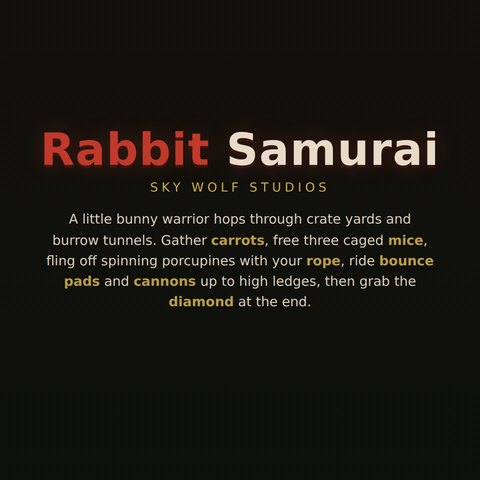
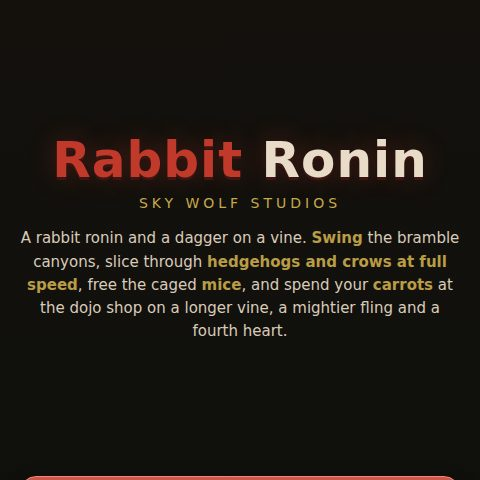
Rabbit Ronin v2.2: the card says its name, no boxed carrots, a calmer pace
Stephen (2026-08-21, heading to bed):
- 'still says rabbit samurai on card' — the thumbnail had the OLD title
  screen baked into the art. Regenerated from the new title screen (says
  Rabbit Ronin, 27KB), thumb ref cache-busted ?v=rr1.
- 'carrots inside a box that you can't get' — arc and platform carrots
  could generate inside solid tiles. genLevel now culls any carrot whose
  cell is solid or that is wedged in a one tile slot. Audited: ZERO boxed
  carrots across all 24 dojos.
- 'plays a little fast still' — MOVE 232 -> 208 (a tenth off the run
  speed; jump and swing untouched).
- His dash/attack button idea is recorded in HANDOFF-SIMPLE-FIXES.md as a
  design note, per his 'don't worry about that one right now'.

Solver re-proved ALL 24 DOJOS SOLVABLE at the calmer speed. That took
policy VARIANTS (lip-precise jumps + hog hop + air dash as new policies
beside the originals) rather than one global bot change: three rounds of
whack-a-mole confirmed, again, that tuning a single reflex policy for all
24 dojos is a trap. The finale now clears deathless.

Plus HANDOFF-SIMPLE-FIXES.md: a scoped queue (brand singular sweep,
feedback-fab collision sweep, dash-free copy sweep, thumb freshness) with
the non-optional rules, for a lighter session to work overnight.

Claude-Session: https://claude.ai/code/session_01TYNuNBxsPqQLGG6T9cEiu3

Changed region(s): [[0.0312, 0.25, 0.9688, 0.7188], [0.0625, 0.9688, 0.9375, 1.0]]

diff --git a/satellites/rabbit-samurai/index.html b/satellites/rabbit-samurai/index.html
@@ -183,12 +183,14 @@ h2.sc-h{font-size:30px; color:var(--gold); font-weight:800; margin-bottom:4px}
 function $(id){ return document.getElementById(id); }
 function tap(id,fn){ var el=$(id); if(el)el.addEventListener('click',function(e){e.preventDefault();fn();}); }
 var VW=540, VH=960, DPR=Math.min(2,window.devicePixelRatio||1);
-var BUILD='v2.1';
+var BUILD='v2.2';
 var TESTMODE=/[?&]rstest=1/.test(location.search);
 
 /* ---------- world constants ---------- */
 var T=40, ROWS=24;
-var GRAV=2200, MAXFALL=1500, MOVE=232, ACCEL=1700, FRIC=1500;
+/* MOVE 232 -> 208 (2026-08-21, Stephen: "it moves pretty quick... plays a
+   little fast still") — a tenth off the run speed; jump and swing untouched */
+var GRAV=2200, MAXFALL=1500, MOVE=208, ACCEL=1700, FRIC=1500;
 var JUMP=770, BOUNCE=1250, CANNON=1560;
 var ROPE_MAX=235, ROPE_MIN=62, ASSIST=1050;
 var HW=12, HH=16; /* bunny half extents */
@@ -432,6 +434,20 @@ function genLevel(li){
   for(i=0;i<nb;i++){ var bc=groundCol(9+Math.floor(i/nb*(W-16))); lvl.bounces.push({ x:bc*T+T/2, y:22*T-7 }); }
   var cc=groundCol(Math.floor(W*0.6)); lvl.cannons.push({ x:cc*T+T/2, y:22*T-24, cd:0 });
   for(i=0;i<3;i++){ var mc=groundCol(Math.floor((i+1)/4*W)); lvl.cells.push({ x:mc*T+T/2, y:21*T, freed:false }); }
+
+  /* no carrot inside solid rock: arc carrots under an anchor and platform
+     carrots can land inside a tile, which reads as a prize you can never
+     have (Stephen 2026-08-21: "carrots inside a box that you can't get").
+     Anything whose cell is solid, or whose bottom tip pokes into rock with
+     rock above it too, is culled. */
+  lvl.carrots=lvl.carrots.filter(function(ca){
+    var cc3=Math.floor(ca.x/T), rr3=Math.floor(ca.y/T);
+    if(cc3<0||cc3>=W||rr3<0||rr3>=ROWS)return false;
+    if(grid[rr3]&&grid[rr3][cc3])return false;
+    var below=grid[rr3+1]&&grid[rr3+1][cc3], above=grid[rr3-1]&&grid[rr3-1][cc3];
+    if(above&&below)return false;   /* wedged in a one tile slot */
+    return true;
+  });
 
   /* spikes: EVERY wide-pit floor tile gets one (swing it, do not jump it);
      narrow pits keep the old sometimes-spiked floor */

diff --git a/portal/index.html b/portal/index.html
@@ -1107,7 +1107,7 @@ var FEATURED = [
   {nm:"Doodle Pad", ds:"A free drawing pad stuffed with pens, brushes, stamps, and every color you can mix.", cat:"creative", url:"/satellites/doodle-pad/", ic:"🎨", thumb:"/portal-assets/thumbs/doodle-pad.jpg"},
   {nm:"Mouse Trap", ds:"Plant one hedge a turn to box the little garden mouse in before it scurries off the edge.", cat:"puzzle", url:"/satellites/mouse-trap/", ic:"🐭", thumb:"/portal-assets/thumbs/mouse-trap.jpg"},
   {nm:"Stop Motion", ds:"Snap photos of your toys frame by frame and turn them into stop motion movies.", cat:"creative", url:"/satellites/stop-motion/", ic:"🎬", thumb:"/portal-assets/thumbs/stop-motion.jpg"},
-  {nm:"Rabbit Ronin", ds:"A rabbit ronin and a dagger on a vine. Swing the bramble canyons, slice foes at full speed, spend carrots at the dojo shop.", cat:"action", url:"/satellites/rabbit-samurai/?v=20260821d", ic:"🐰", thumb:"/portal-assets/thumbs/rabbit-samurai.jpg", fresh:true},
+  {nm:"Rabbit Ronin", ds:"A rabbit ronin and a dagger on a vine. Swing the bramble canyons, slice foes at full speed, spend carrots at the dojo shop.", cat:"action", url:"/satellites/rabbit-samurai/?v=20260821e", ic:"🐰", thumb:"/portal-assets/thumbs/rabbit-samurai.jpg?v=rr1", fresh:true},
   {nm:"Garden Path", ds:"A sweet color card race down the rainbow path to the Garden Throne.", cat:"board", url:"/satellites/garden-path/", ic:"🍭", thumb:"/portal-assets/thumbs/garden-path.jpg"},
   {nm:"Garden Estates", ds:"A garden spin on the property board game where the last gardener standing wins.", cat:"board", url:"/satellites/garden-estates/", ic:"🏡", thumb:"/portal-assets/thumbs/garden-estates.jpg"},
   // Blooming Words: vendored same-origin (Jul 02) like the two above so its

diff --git a/HANDOFF-SIMPLE-FIXES.md b/HANDOFF-SIMPLE-FIXES.md
@@ -1,0 +1,99 @@
+# HANDOFF: simple game fixes (written 2026-08-21, late night)
+
+You are a Claude session picking up light maintenance for Stephen's arcade
+while he sleeps. This file is your whole brief. Work the queue below top to
+bottom, verify every change, push after every commit. If the queue is done,
+stop; do not invent large projects.
+
+## The rules that are not optional
+
+1. **Deploy** = commit on `add-sproing-jumper`, then
+   `git push origin add-sproing-jumper:main`. Hostinger serves main.
+   Nothing is live until that push, and a 200 is not proof: probe the LIVE
+   url for a NEW marker string you just added, with `?probe=$RANDOM`.
+2. **Caching law**: bump every `?v=` you touch (portal card url, sw.js
+   registration AND its SHELL_VERSION/cache constant together). A player
+   who keeps the old cache is a player you did not fix.
+3. **LOOKING is part of the job**: any visual change gets a screenshot at
+   412x915 (deviceScaleFactor 2, touch on) that you OPEN AND READ. Name
+   what is wrong in it before assuming you are done. Puppeteer probes live
+   in `scripts/` (repo node_modules resolve there; the scratchpad cannot).
+   A local server usually runs at `127.0.0.1:8777` (repo root,
+   `python3 -m http.server 8777`); use `domcontentloaded`, never
+   networkidle.
+4. **Run the game's own gates** after editing it and before committing:
+   many satellites carry `sim.js --test`, `check.js`, `audit-check.mjs`,
+   or `pagecheck.js` in their folder. `scripts/portal_ux_check.mjs` (26
+   asserts) and `scripts/advertised_count_check.mjs` guard the portal —
+   run both after ANY portal edit.
+5. **Copy rules**: no dashes of any kind in player-facing text (spell it
+   out or use commas), display names never slugs, the studio is
+   **Sky Wolf Studio** (SINGULAR) in any NEW copy.
+6. **Never remove a game.** Gating (`beta:true`) exists; removal does not.
+7. **Read before believing**: `DONE-LEDGER.md` before any sweep or count;
+   a game's `AUDIT-NOTES.md` before calling anything broken;
+   `VENDORING.md` before touching `satellites/<slug>/` for a vendored
+   game (fix upstream, never hand-edit those).
+8. **Do not touch**: Steam anything, payment code (functions/, LW_WebPay),
+   the Lucid Winds economy, vendored games, `index.html`'s game systems.
+   Do not deploy Firebase functions. Do not start rebuilds.
+9. Commit messages explain WHY, quoting Stephen when the fix answers his
+   feedback.
+
+## The queue (in order)
+
+### 1. Brand sweep: "Sky Wolf Studios" -> "Sky Wolf Studio"
+Stephen owns skywolfstudio.com (singular); the plural .com belongs to
+someone else. Shipped games still say the plural everywhere.
+- `grep -rn "Sky Wolf Studios" --include="*.html" satellites/ play/ portal/`
+  plus games/*.js. Change PLAYER-VISIBLE copy (title screens, footers, og
+  meta, share strings) to "Sky Wolf Studio".
+- Do NOT rename code identifiers, file paths, or localStorage keys.
+- This trips dash-free/copy checks in some games' suites; run each game's
+  gate after editing it. Batch by folder, commit per batch, push each.
+- Skip vendored games (VENDORING.md list) — note them in the commit body
+  as "needs upstream fix" instead.
+
+### 2. Feedback-fab collision sweep (canvas games, bottom-right controls)
+The floating feedback chip parks bottom-right and CANNOT see painted
+controls; it ate Rabbit Ronin's JUMP button (see
+`feedback_fab_on_painted_controls` in memory). feedback.js v7 supports
+`home:'top-right'`.
+- For each satellite that mounts the fab (`grep -l "mountFab" satellites/*/index.html`),
+  open the game headless, screenshot the PLAY state, and LOOK: does any
+  painted control sit in the bottom-right quarter?
+- If yes: change its mount to `/feedback.js?v=7` +
+  `home:'top-right'` (copy the pattern from
+  satellites/rabbit-samurai/index.html line ~807), re-screenshot, confirm
+  the fab sits in dead space top-right.
+- One commit per fixed game, screenshot-verified. Already done:
+  rabbit-samurai, slice-3d.
+
+### 3. Dash characters in /play/ shell copy
+`play/shell.js` builds a directions sheet; some game entries and shells
+carry em-dashes in player-facing text (Master Pollinator's rules sheet
+does). Sweep `play/*.html`, `play/shell.js`, `games/*.js` for em/en
+dashes in STRINGS THE PLAYER READS and rewrite them dash-free without
+changing meaning. Leave code comments alone. Run
+`node scripts/portal_ux_check.mjs` and each touched game's gate.
+
+### 4. Thumb freshness check
+`portal-assets/thumbs/rabbit-samurai.jpg` was regenerated tonight (says
+Rabbit Ronin). Spot-check other thumbs whose games were renamed or
+overhauled recently (Stop the Light, Super Slice hub): open the thumb,
+open the live game title screen, compare. If a thumb shows a dead name,
+regenerate: screenshot the title screen at 540x960, crop 480x480 around
+the title, save jpg quality 82 (must stay under 150KB), and bump the
+thumb reference in portal/index.html with `?v=<something new>`.
+`scripts/rr_thumb.mjs` is the pattern.
+
+## Design notes left by Stephen tonight (DO NOT BUILD, just preserve)
+- Rabbit Ronin: a dedicated dash/attack button on the right side above
+  JUMP is under consideration. He explicitly said not to build it yet.
+- Deepwell wants a content expansion (more landmarks, deals, ore below
+  400m). Rebuild-scale; not for this session.
+
+## When the queue is empty
+Update the memory repo (`~/.claude/projects/-workspaces-lucid-winds/memory`,
+push with `env -u GITHUB_TOKEN -u GH_TOKEN git push origin main`) with a
+short note of what shipped, then stop cleanly. Do not pick new work.
